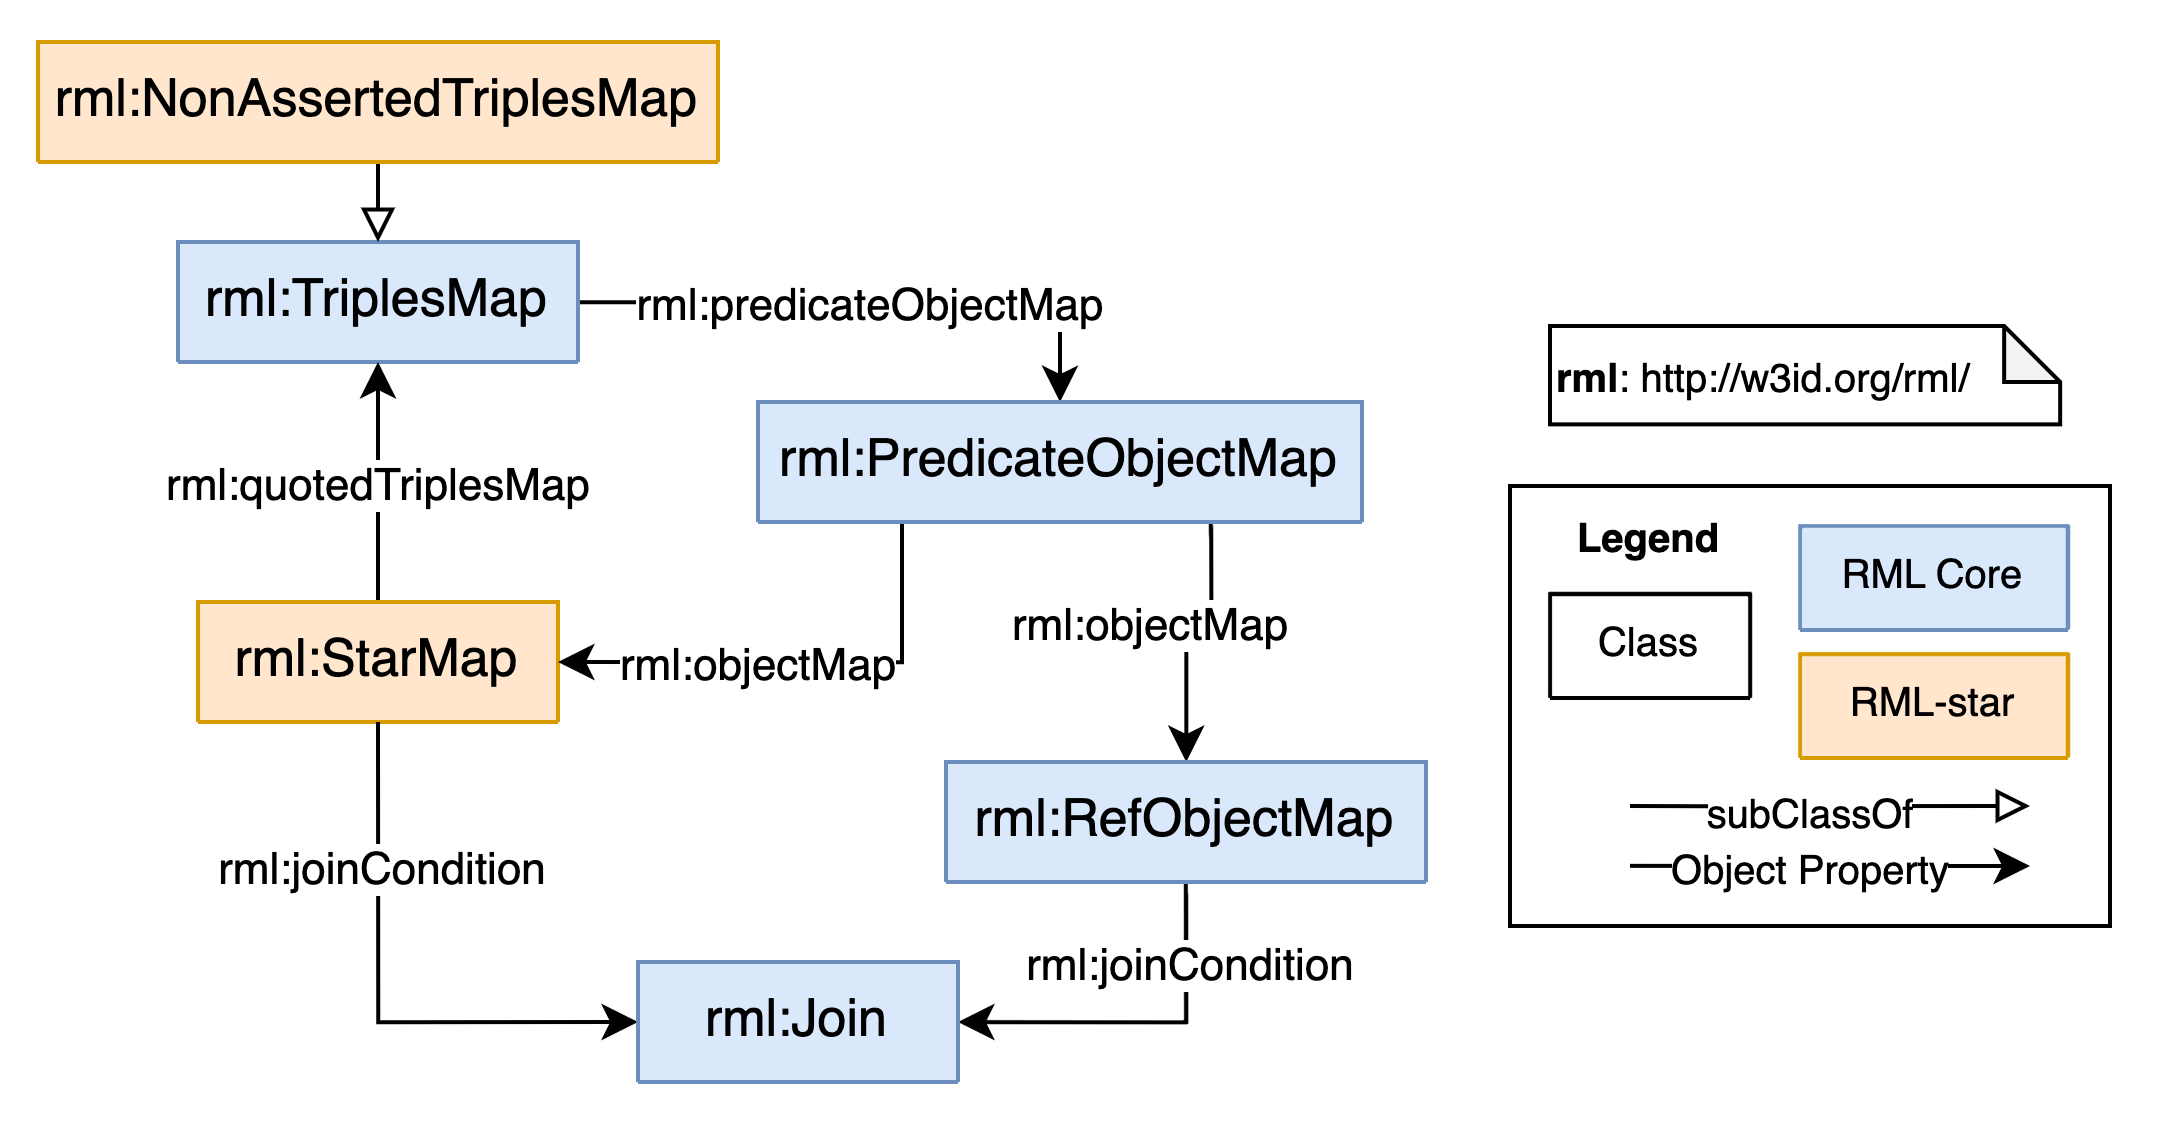
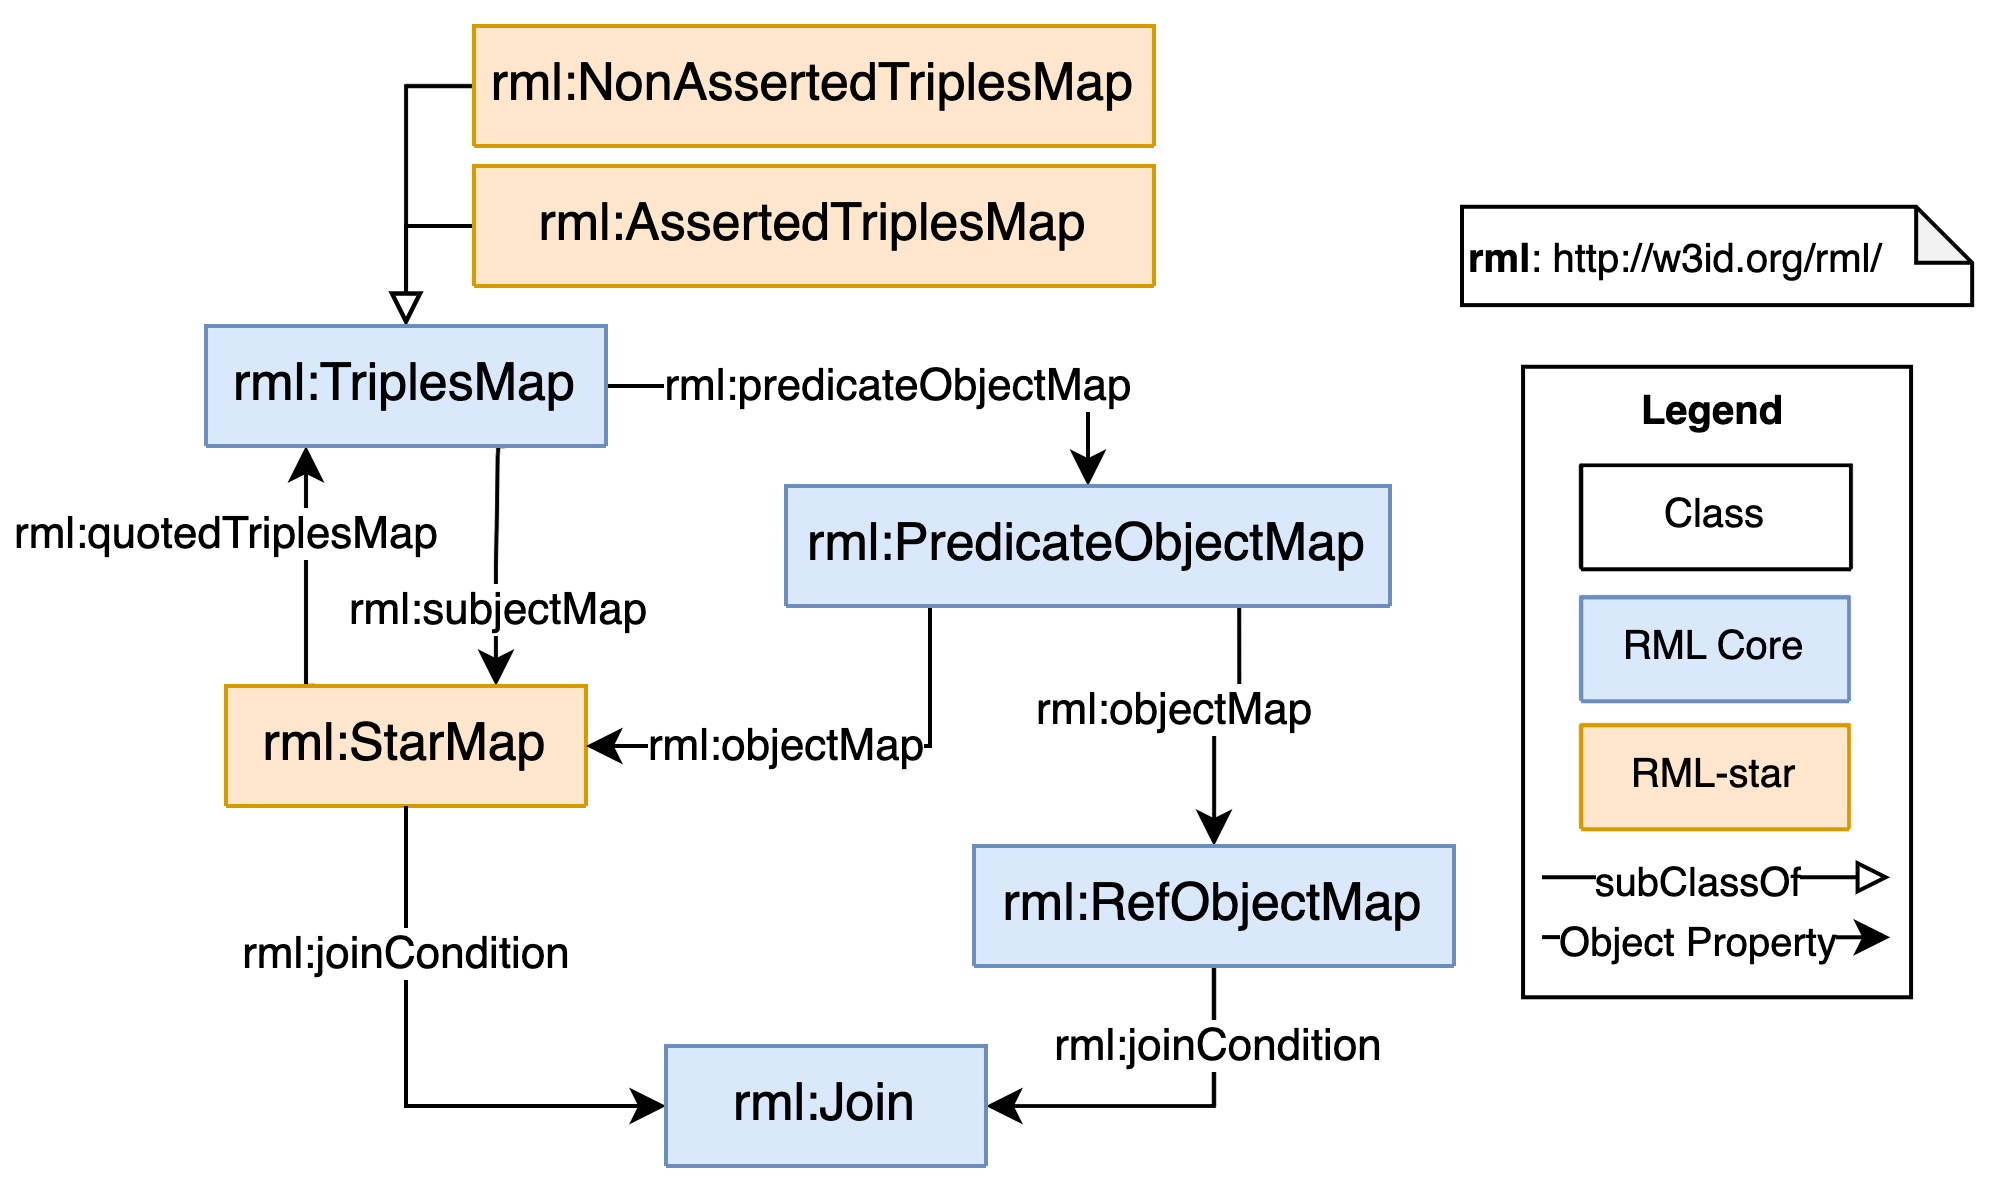
assertedTM class added

diff --git a/ontology/documentation/sections/crossref-en.html b/ontology/documentation/sections/crossref-en.html
@@ -4,12 +4,41 @@ This section provides details for each class and property defined by RML-star.
    <h3 id="classes-headline" class="list">Classes</h3>
    <ul class="hlist">
       <li>
+         <a href="#http://w3id.org/rml/AssertedTriplesMap" title="http://w3id.org/rml/AssertedTriplesMap">Asserted Triples Map</a>
+      </li>
+      <li>
          <a href="#http://w3id.org/rml/NonAssertedTriplesMap" title="http://w3id.org/rml/NonAssertedTriplesMap">Non Asserted Triples Map</a>
       </li>
       <li>
          <a href="#http://w3id.org/rml/StarMap" title="http://w3id.org/rml/StarMap">Star Map</a>
       </li>
    </ul>
+   <div class="entity" id="http://w3id.org/rml/AssertedTriplesMap">
+      <h3>Asserted Triples Map<sup class="type-c" title="class">c</sup>
+         <span class="backlink"> back to <a href="#toc">ToC</a> or <a href="#classes">Class ToC</a>
+         </span>
+      </h3>
+      <p>
+         <strong>IRI:</strong> http://w3id.org/rml/AssertedTriplesMap</p>
+      <div class="comment">
+         <span class="markdown">A type of Triples Map that is quoted and asserted in the resulting graph.</span>
+      </div>
+      <dl class="definedBy">
+         <dt>Is defined by</dt>
+         <dd>
+            <a href="http://w3id.org/rml/star/">http://w3id.org/rml/star/</a>
+         </dd>
+      </dl>
+      <dl class="description">
+         <dt>has super-classes</dt>
+         <dd>
+            <a href="http://w3id.org/rml/TriplesMap"
+               target="_blank"
+               title="http://w3id.org/rml/TriplesMap">triples map</a>
+            <sup class="type-c" title="class">c</sup>
+         </dd>
+      </dl>
+   </div>
    <div class="entity" id="http://w3id.org/rml/NonAssertedTriplesMap">
       <h3>Non Asserted Triples Map<sup class="type-c" title="class">c</sup>
          <span class="backlink"> back to <a href="#toc">ToC</a> or <a href="#classes">Class ToC</a>
@@ -18,7 +47,7 @@ This section provides details for each class and property defined by RML-star.
       <p>
          <strong>IRI:</strong> http://w3id.org/rml/NonAssertedTriplesMap</p>
       <div class="comment">
-         <span class="markdown">A type of Triples Map that is not asserted in the resulting graph</span>
+         <span class="markdown">A type of Triples Map that is quoted but not asserted in the resulting graph</span>
       </div>
       <dl class="definedBy">
          <dt>Is defined by</dt>

diff --git a/ontology/documentation/index-en.html b/ontology/documentation/index-en.html
@@ -6,7 +6,7 @@
 
 
 <!-- SCHEMA.ORG METADATA -->
-<script type="application/ld+json">{"@context":"https://schema.org","@type":"TechArticle","url":"http://w3id.org/rml/star/","image":"http://vowl.visualdataweb.org/webvowl/#iri=http://w3id.org/rml/star/","name":"RML-star", "headline":"RML module for generating RDF-star graphs", "datePublished":"Wed Apr 19 19:35:33 UTC 2023", "contributor":[{"@type":"Person","name":"Ana Iglesias Molina"},{"@type":"Person","name":"Anastasia Dimou"},{"@type":"Person","name":"David Chaves Fraga"},{"@type":"Person","name":"Julián Arenas Guerrero"}]}</script>
+<script type="application/ld+json">{"@context":"https://schema.org","@type":"TechArticle","url":"http://w3id.org/rml/star/","image":"http://vowl.visualdataweb.org/webvowl/#iri=http://w3id.org/rml/star/","name":"RML-star", "headline":"RML module for generating RDF-star graphs", "datePublished":"Wed May 03 14:29:29 UTC 2023", "contributor":[{"@type":"Person","name":"Ana Iglesias Molina"},{"@type":"Person","name":"Anastasia Dimou"},{"@type":"Person","name":"David Chaves Fraga"},{"@type":"Person","name":"Julián Arenas Guerrero"}]}</script>
 
 <script src="resources/jquery.js"></script> 
 <script src="resources/marked.min.js"></script> 

diff --git a/ontology/documentation/sections/overview-en.html b/ontology/documentation/sections/overview-en.html
@@ -4,6 +4,9 @@ This ontology has the following classes and properties.</span>
 <h4>Classes</h4>
 <ul xmlns:xsi="http://www.w3.org/2001/XMLSchema-instance" class="hlist">
    <li>
+      <a href="#http://w3id.org/rml/AssertedTriplesMap" title="http://w3id.org/rml/AssertedTriplesMap">Asserted Triples Map</a>
+   </li>
+   <li>
       <a href="#http://w3id.org/rml/NonAssertedTriplesMap" title="http://w3id.org/rml/NonAssertedTriplesMap">Non Asserted Triples Map</a>
    </li>
    <li>
